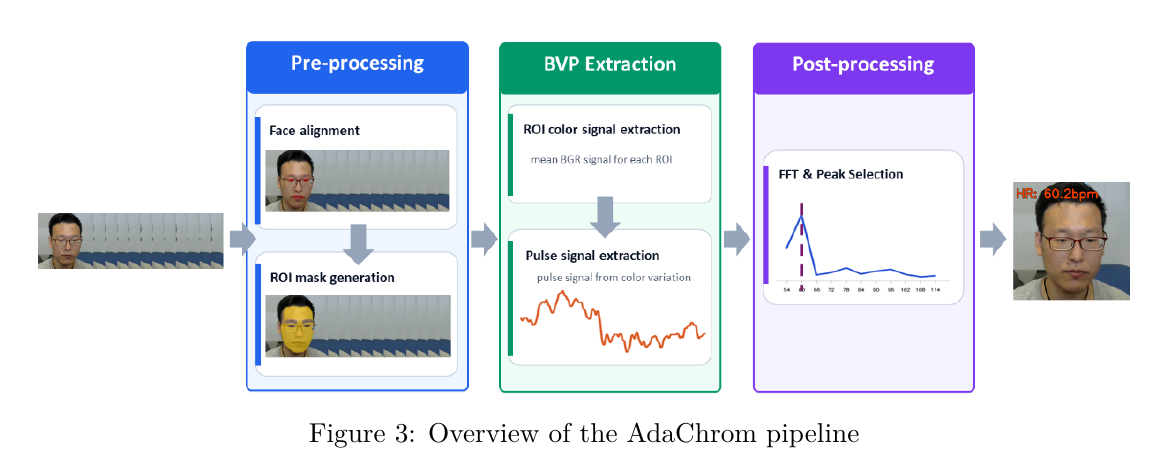
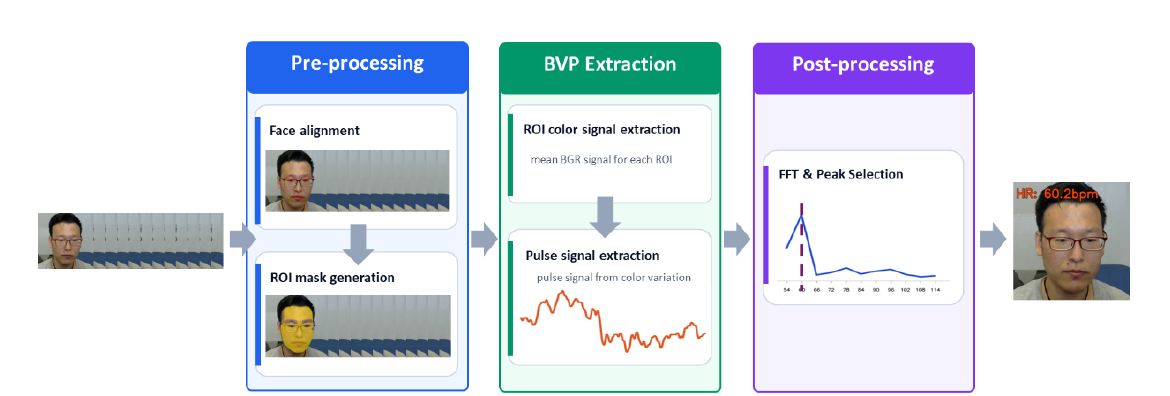
fix: crop AdaChrom figure caption

diff --git a/website/src/styles/global.css b/website/src/styles/global.css
@@ -1264,7 +1264,7 @@ a.resource-row:hover {
 }
 
 .adachrom-pipeline-frame {
-  aspect-ratio: 1170 / 410;
+  aspect-ratio: 1170 / 396;
   overflow: hidden;
   background: #fff;
   border: 1px solid rgb(15 23 42 / 12%);
